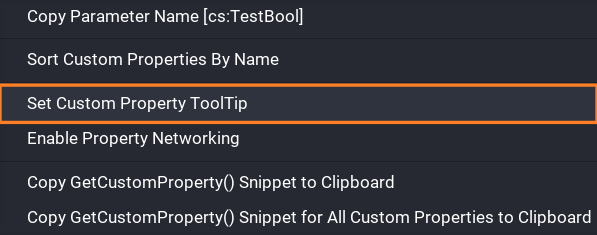
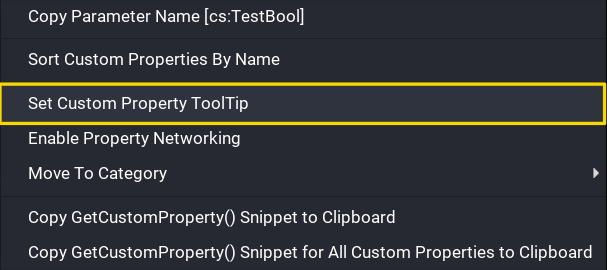
Update Custom Properties Reference
Added category information, and redone some of the images again so they include the updated Add Property panel.

Changed region(s): [[0.0, 0.0, 1.0, 1.0], [0.0302, 0.7447, 0.6633, 0.834], [0.0302, 0.0298, 0.5126, 0.1191]]

diff --git a/src/references/custom_properties.md b/src/references/custom_properties.md
@@ -30,7 +30,6 @@ This is the best option for many simple data types like strings, numbers, and bo
 3. Click on the data type the value of the custom property will contain.
 4. Type the name the custom property will be referred by.
 5. Edit the value of the custom property as needed.
-6. Add tooltip if needed. This can be used to explain what the custom property is for.
 
 ![Properties Window](../img/CustomProperties/PropertiesWindow.png)
 
@@ -69,6 +68,42 @@ There are 2 ways to add a tooltip to a custom property.
 When hovering over a custom property that has a tooltip set, it will display a box with the information set as the tooltip.
 
 ![!Tooltip](../img/CustomProperties/TooltipExample.png)
+
+## Add Custom Property Categories
+
+Custom properties can be placed inside custom categories. This can be a good way of organising the custom properties so it easier to manage when there is a large number of custom properties.
+
+![!Categories](../img/CustomProperties/CustomCategories.png)
+
+### Create a Category
+
+When adding a new custom property, the **Add Property** panel has fields where a **Category** can be selected, or created, and a **Sub Category** can be selected, or created.
+
+To create a new **Category**, click inside the **Category** field and type the category to be created. The same applies for **Sub Category**. A custom property can have a root **Category** and a **Sub Category**
+
+![!Category](../img/CustomProperties/AddPropertyCategory.png)
+
+### Add Custom Property to Category
+
+Adding a property to a **Category** or **Sub Category** can be done from 2 locations.
+
+1. Add Property Panel.
+
+    When creating a new custom property, clicking inside the **Category** field will list any existing categories that have been created. Select the category to add the custom property too. This also applies to **Sub Categories**.
+
+    ![!Add to Category](../img/CustomProperties/AddToCategory.png)
+
+2. Move to Category.
+
+    From the **Properties** panel, custom properties can be moved to a category. Right click on the custom property to be moved, select **Move To Category**, and select the category.
+
+    ![!Move to Category](../img/CustomProperties/MoveToCategory.png)
+
+### Rename or Delete Category
+
+Renaming or deleting categories can be done from the options panel from the **Properties** panel.
+
+![!Rename or Delete Category](../img/CustomProperties/RenameDeleteCategory.png)
 
 ## Copying Custom Properties
 
